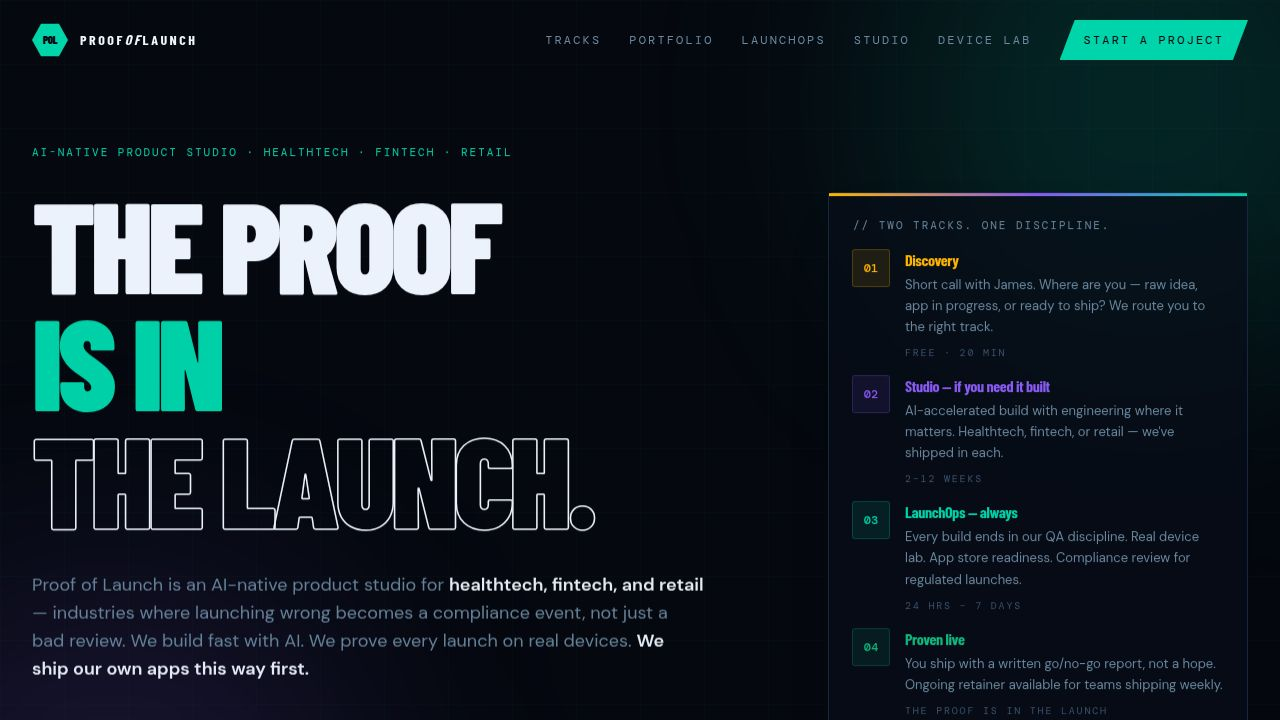
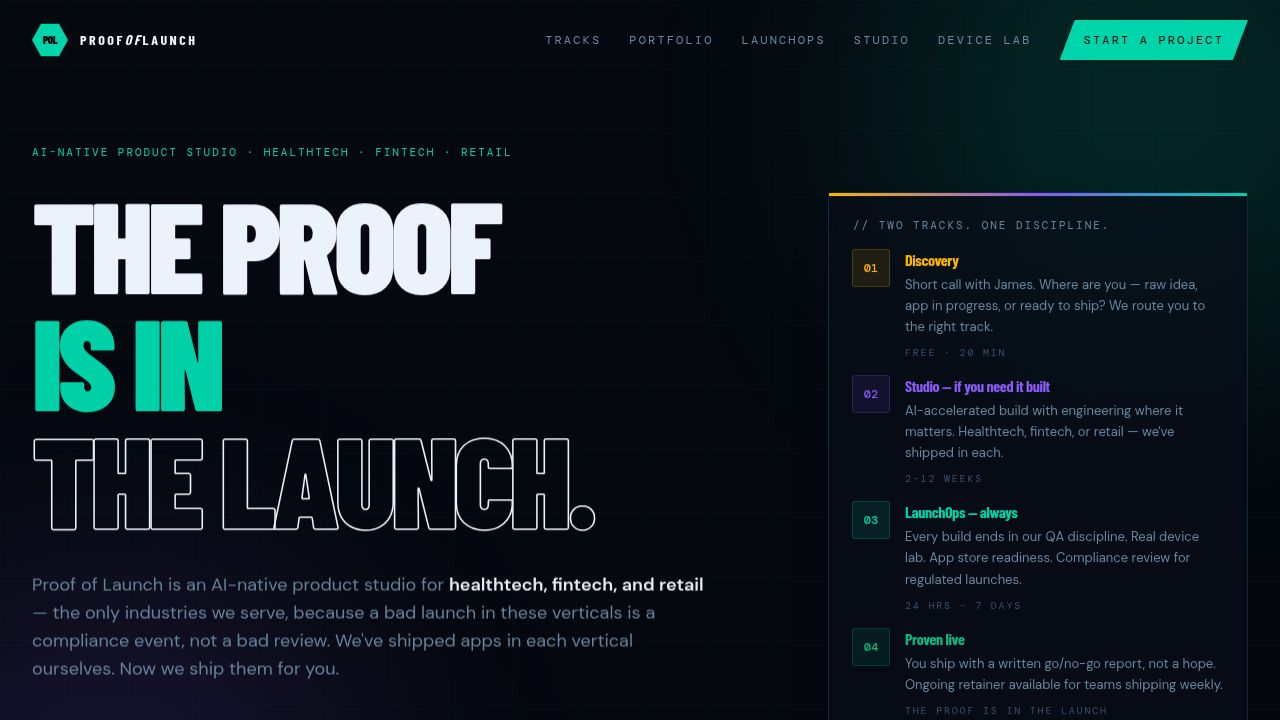
Update service offerings and service tiers to reflect new offerings
Update content JSON to add two new LaunchOps tiers, modify existing tier numbering, and adjust copy in the hero and device lab sections.

Replit-Commit-Author: Agent
Replit-Commit-Session-Id: 89023304-5262-4dc2-93cf-76bdfd8849f8
Replit-Commit-Checkpoint-Type: full_checkpoint
Replit-Commit-Event-Id: f82c7539-3f69-4045-bb38-aaf2b74c2afe
Replit-Commit-Screenshot-Url: https://storage.googleapis.com/screenshot-production-us-central1/f5068600-e9f1-42a0-b380-48cf8d63df1d/89023304-5262-4dc2-93cf-76bdfd8849f8/Ue6l4lb
Replit-Helium-Checkpoint-Created: true

Changed region(s): [[0.0312, 0.825, 0.5312, 0.9472]]

diff --git a/attached_assets/Replit_ContentUpdate_v1.1_1776542958078.md b/attached_assets/Replit_ContentUpdate_v1.1_1776542958078.md
@@ -1,0 +1,223 @@
+# PROOF OF LAUNCH — Content Update Spec (v1.1)
+
+**Purpose:** Update content.json and related components to reflect repositioning and two new LaunchOps tiers.
+
+**Scope:** Content-only changes to `content.json`. No structural, styling, or component changes.
+
+**Verification:** Run `rm -rf .next && pnpm exec tsc --noEmit && pnpm exec next build` locally before committing. Confirm homepage preview renders all changed sections correctly.
+
+---
+
+## CHANGE 1 — Hero subhead
+
+**Location:** `content.json` → `hero.subhead`
+
+**Current value:**
+
+```
+"Proof of Launch is an AI-native product studio for **healthtech, fintech, and retail** — industries where launching wrong becomes a compliance event, not just a bad review. We build fast with AI. We prove every launch on real devices. **We ship our own apps this way first.**"
+```
+
+**New value:**
+
+```
+"Proof of Launch is an AI-native product studio for **healthtech, fintech, and retail** — the only industries we serve, because a bad launch in these verticals is a compliance event, not a bad review. We've shipped apps in each vertical ourselves. Now we ship them for you."
+```
+
+**Rationale:** Turns vertical specialization from a preference into a commitment ("the only industries we serve"), and connects portfolio to service offering ("now we ship them for you"). Keep existing markdown bold on "healthtech, fintech, and retail". No other styling changes.
+
+---
+
+## CHANGE 2 — Device Lab section headline and fleet label
+
+**Location:** `content.json` → `devicesSection`
+
+### 2a — Fleet label
+
+**Current:**
+
+```
+"fleetLabel": "Our Device Fleet — Real Hardware, Real Conditions"
+```
+
+**New:**
+
+```
+"fleetLabel": "Our Device Fleet — Real Hardware. Real Conditions. Real Regulated Scenarios."
+```
+
+### 2b — Subhead
+
+**Current:**
+
+```
+"subhead": "Touch target failures. Camera permission bugs after restart. Offline sync breaking on iOS PWA. Screens washed out in sunlight. These only appear on real hardware — and they're exactly the failures that become clinical incidents, compliance events, or lost retail sales. Our device lab tests every LaunchOps engagement on actual phones and tablets."
+```
+
+**New:**
+
+```
+"subhead": "Simulators don't fail the way real devices fail. We test on the specific hardware your users actually run — clinical tablets in hospital Wi-Fi conditions, POS terminals during retail peak hours, offline-capable scanners with spotty connectivity. These are the conditions your app has to survive. This is where launches actually break."
+```
+
+**Rationale:** Moves from generic "real devices vs simulators" (table stakes) to vertical-specific scenario framing (defensible differentiator). No structural changes — same section, same visual layout.
+
+---
+
+## CHANGE 3 — Add two new LaunchOps tiers
+
+**Location:** `content.json` → `launchOpsSection.tiers`
+
+**Action:** Insert TWO new tier objects into the `tiers` array. Order and positions:
+
+1. Keep `sanity-check` (Tier 01) — position 1
+2. Keep `finish-line` (Tier 02) — position 2
+3. **INSERT `production-setup` (Tier 03)** — new, position 3
+4. **INSERT `store-setup` (Tier 04)** — new, position 4
+5. `launch-ready` — RENUMBER to Tier 05 — position 5
+6. `compliance-launch` — RENUMBER to Tier 06 — position 6
+7. `retainer` — RENUMBER to Tier 07 — position 7
+
+**IMPORTANT:** Update the `"number"` field on existing tiers to reflect new positions (Launch Ready becomes "QA Tier 05", Compliance Launch becomes "QA Tier 06", Retainer becomes "QA Tier 07").
+
+### New tier object — Production Setup
+
+Insert between `finish-line` and `launch-ready`:
+
+```json
+{
+  "id": "production-setup",
+  "number": "QA Tier 03",
+  "name": "Production Setup",
+  "forWhom": "Built on Lovable/Replit? We'll host it for real.",
+  "price": 1299,
+  "priceDisplay": "$1,299",
+  "priceNote": "FLAT · ONE TIME",
+  "featured": false,
+  "badge": { "label": "Vibe Coder", "color": "amber" },
+  "features": [
+    "Production deployment (AWS, Vercel, Railway — we configure)",
+    "Custom domain + SSL certificates",
+    "CDN + performance baseline",
+    "Database separation + environment variables",
+    "Monitoring, uptime alerts, error tracking",
+    "Automated backups",
+    "Written production readiness verdict",
+    "Full account handoff with documentation"
+  ],
+  "turnaround": "⏱ 3-day turnaround"
+}
+```
+
+### New tier object — Store Setup
+
+Insert between `production-setup` and `launch-ready`:
+
+```json
+{
+  "id": "store-setup",
+  "number": "QA Tier 04",
+  "name": "Store Setup",
+  "forWhom": "From vibe-coded to App Store / Play Store",
+  "price": 999,
+  "priceDisplay": "$999",
+  "priceNote": "FLAT · ONE TIME",
+  "featured": false,
+  "badge": { "label": "New", "color": "teal" },
+  "features": [
+    "Apple Developer Program setup (your name, your ownership)",
+    "Google Play Console setup (your name, your ownership)",
+    "D-U-N-S registration if business verification needed",
+    "Bundle ID and signing key strategy",
+    "Privacy declarations, data safety, content ratings",
+    "Screenshots at all required device resolutions",
+    "TestFlight and Play Console internal testing",
+    "Delegated admin access + written handoff"
+  ],
+  "turnaround": "⏱ 5-day turnaround"
+}
+```
+
+### Renumbering the remaining tiers
+
+Update these three existing tiers' `"number"` fields:
+
+- `launch-ready`: change `"number": "QA Tier 03"` → `"number": "QA Tier 05"`
+- `compliance-launch`: change `"number": "QA Tier 04"` → `"number": "QA Tier 06"`
+- `retainer`: change `"number": "QA Tier 05"` → `"number": "QA Tier 07"` (verify current number; adjust to +2 from wherever it is)
+
+**No other changes** to those three existing tiers. Features, pricing, descriptions, badges all stay exactly as-is.
+
+---
+
+## CHANGE 4 — Update contact form situation options
+
+**Location:** `content.json` → `contactSection.form.situationOptions`
+
+**Why:** The new Production Setup and Store Setup tiers need routing paths on the contact form, so vibe-coder prospects self-identify.
+
+**Current array (approximately):**
+
+```
+"I have an idea — need it built (Studio)",
+"App is half-built — need help finishing (Studio or Finish Line)",
+"App is built — need QA before launch (LaunchOps)",
+"App was rejected by App Store / Play Store (Rejection Recovery)",
+... (remaining options)
+```
+
+**Add TWO new options, inserted in LaunchOps-first order. The updated full array:**
+
+```json
+"situationOptions": [
+  "App is built on Lovable/Replit/Bolt — need to host and publish it (LaunchOps Production + Store Setup)",
+  "App is built — need QA before launch (LaunchOps Launch Ready)",
+  "App is half-built — need help finishing (Finish Line)",
+  "App was rejected by App Store / Play Store (Rejection Recovery)",
+  "Healthtech or fintech app — need compliance review (Compliance Launch)",
+  "I have an idea — need it built (Studio)",
+  "Something else — let's talk"
+]
+```
+
+Adjust existing options to match this structure; preserve any additional options already present (like "Something else").
+
+---
+
+## CHANGE 5 — Mobile scroll-snap verification
+
+The LaunchOps tier grid uses horizontal scroll-snap on mobile. Adding two tiers (from 5 to 7 cards) should NOT require layout changes — the scroll-snap handles arbitrary card counts. But verify on mobile preview that all 7 cards render and snap correctly before pushing.
+
+---
+
+## What NOT to change
+
+- Hero headline ("THE PROOF / IS IN / THE LAUNCH.") — no change
+- Journey card (4 steps) — no change
+- Tracks section — no change
+- Portfolio section — no change
+- Studio section tiers — no change
+- Footer — no change
+- Any styling, colors, typography, component structure
+
+---
+
+## Commit message
+
+Suggest: `"Content v1.1: strengthen vertical positioning, add Production Setup and Store Setup tiers"`
+
+---
+
+## After push
+
+Vercel will auto-deploy from the new commit. Expected build time: 2-4 minutes. All existing tests and type-checks should pass because these are pure content-object additions (no schema changes, no new component types).
+
+If content.json parsing fails, it's almost certainly a JSON syntax error (trailing comma, missing quote). Run `cat content.json | python -m json.tool` locally to validate before commit.
+
+---
+
+## Summary of impact
+
+After this update, the LaunchOps tier grid will have 7 tiers instead of 5, covering a more complete customer journey from vibe-coder-needs-hosting ($1,299) all the way up to enterprise retainer ($3,900/mo). The hero and Device Lab copy sharpens the vertical-specialization claim. Contact form routing correctly directs the new vibe-coder buyer persona to the right tier.
+
+No structural changes. No new components. No design work. Content-only edits plus two new tier objects.
